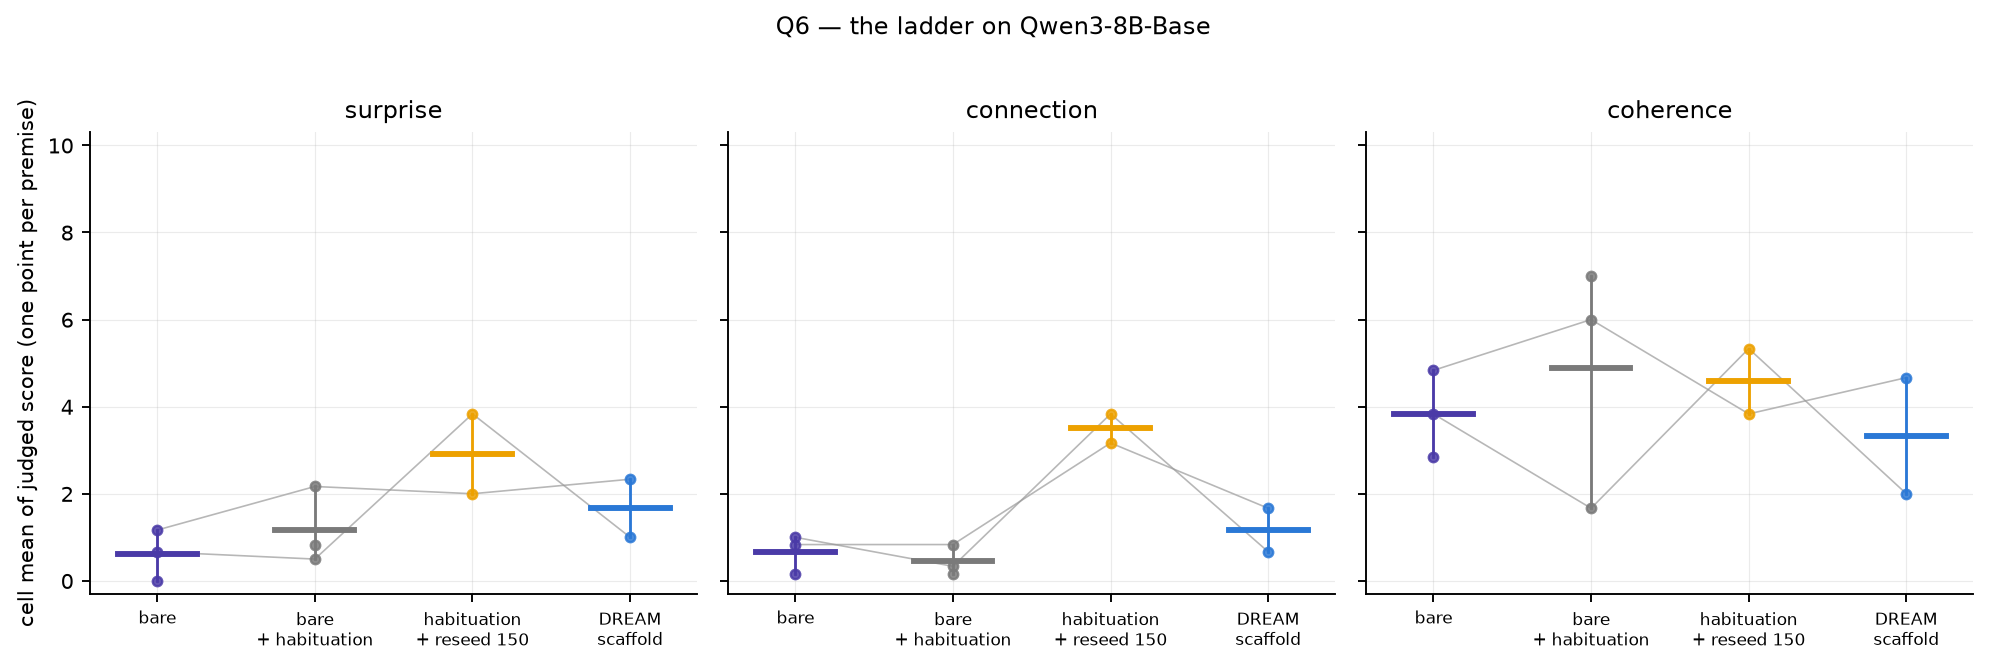
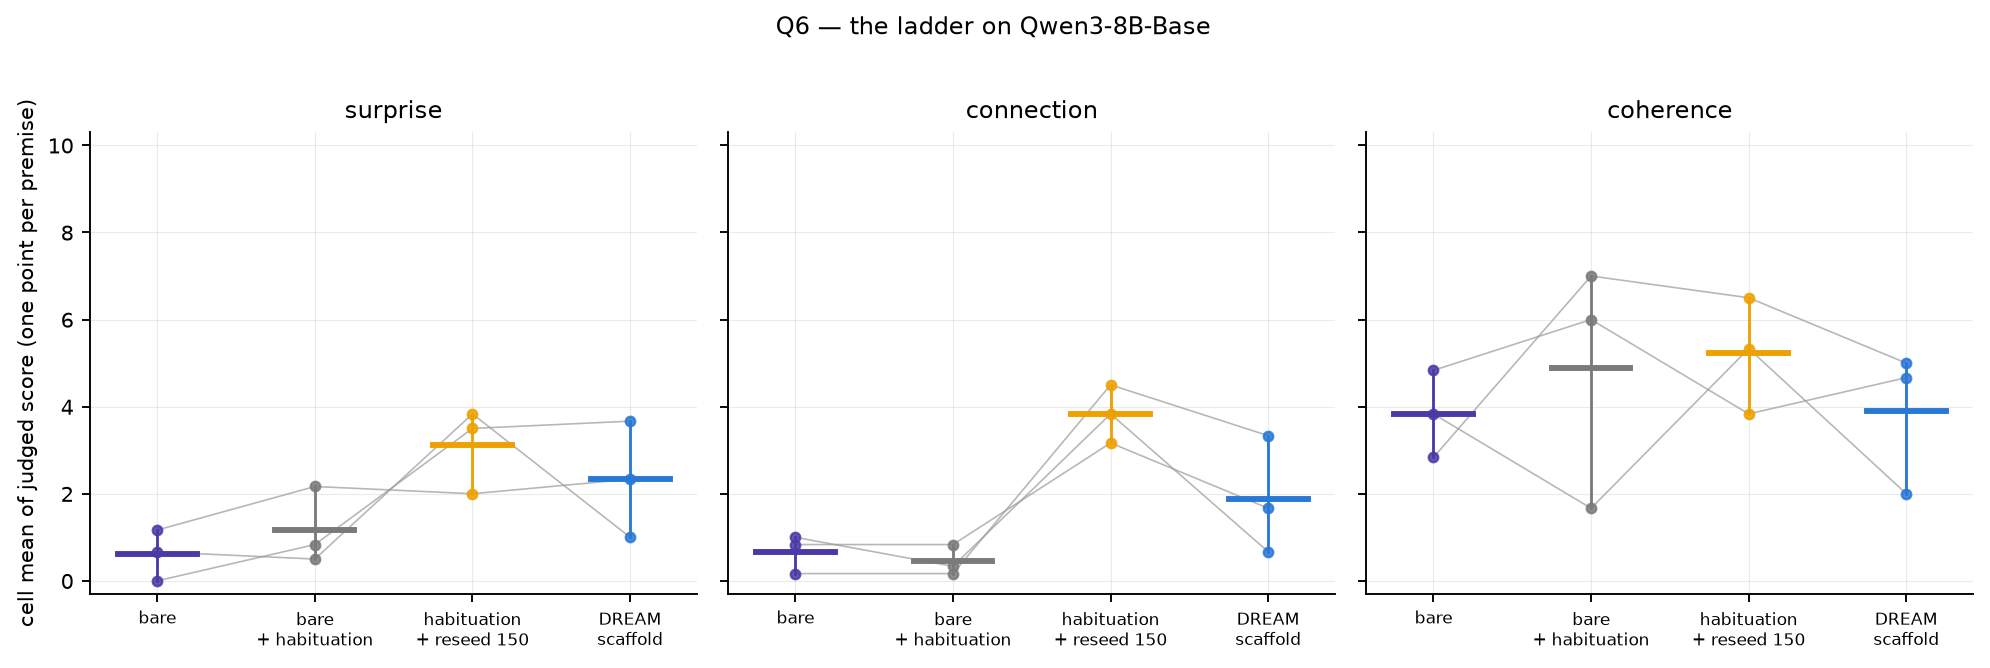
analysis_gen: phase-weighted stream estimate per period

diff --git a/scripts/analysis_gen.py b/scripts/analysis_gen.py
@@ -220,13 +220,24 @@ def main() -> None:
           [("bare_reseed", "150"), ("clock300", "300"), ("clock600", "600"), ("clock900", "900")],
           ref=0, fname="fig9_q5_period.png")
     # decay: cell means by offset for 300/600/900
-    md.append("\n### Q5b — decay: cell mean surprise by tokens since the injection (window start), generated text only\n")
-    md.append("| period | " + " | ".join(f"offset {o}" for o in (32, 160, 300, 450, 600, 750)) + " |")
-    md.append("|---|" + "---|" * 6)
+    md.append("\n### Q5b — decay: cell mean surprise by tokens since the injection (window start), generated text only; "
+              "stream estimate = offset means weighted by the stretch of the segment each window represents\n")
+    md.append("| period | " + " | ".join(f"offset {o}" for o in (32, 160, 300, 450, 600, 750)) + " | stream estimate (S / C / H) |")
+    md.append("|---|" + "---|" * 7)
     fig, ax = plt.subplots(figsize=(6.5, 3.6))
-    for c, lab in (("bare_reseed", "150"), ("clock300", "300"), ("clock600", "600"), ("clock900", "900")):
+    for c, lab, period in (("bare_reseed", "150", 150), ("clock300", "300", 300), ("clock600", "600", 600), ("clock900", "900", 900)):
         xs, ys, es = [], [], []
         row = []
+        offs = [o for o in (32, 160, 300, 450, 600, 750) if o + 96 <= period]
+        stream = {}
+        for d in DIMS:
+            num = den = 0.0
+            for i, o in enumerate(offs):
+                cm = cell_means(main30, c, d, o)
+                if len(cm) >= 3:
+                    w = (offs[i + 1] if i + 1 < len(offs) else period) - (0 if i == 0 else o)
+                    num += w * np.mean(list(cm.values())); den += w
+            stream[d] = num / den if den else float("nan")
         for o in (32, 160, 300, 450, 600, 750):
             cm = cell_means(main30, c, "surprise", o)
             if len(cm) >= 3:
@@ -235,7 +246,7 @@ def main() -> None:
                 row.append(f"{np.mean(v):.2f} (n={len(v)})")
             else:
                 row.append("—")
-        md.append(f"| {lab} | " + " | ".join(row) + " |")
+        md.append(f"| {lab} | " + " | ".join(row) + f" | {stream['surprise']:.2f} / {stream['connection']:.2f} / {stream['coherence']:.2f} |")
         if xs:
             ax.errorbar(xs, ys, yerr=np.array(es).T, fmt="-o", ms=4, capsize=2, color=PAL.get(c, "#666"), label=f"every {lab}")
     ax.set_xlabel("window centre, tokens since the injection (generated text only)"); ax.set_ylabel("cell mean surprise (95% CI over cells)")

diff --git a/docs/APPENDIX_GEN.md b/docs/APPENDIX_GEN.md
@@ -2,15 +2,15 @@
 
 Windows of 96 model-generated tokens starting 32 tokens after each injection (none crossing an injection); uniform grid for uninterrupted arms; the judge sees the 600 preceding tokens as context. Unit = cell (premise); CIs are bootstrap over cells; paired comparisons use exact sign-flip permutation p-values on the 10 paired differences and Cliff's delta on cell means. Opus 5, k=5, median per window.
 
-216 judged windows on the main generator, 75 on Qwen3-8B, 62 on OLMo-2.
+271 judged windows on the main generator, 91 on Qwen3-8B, 74 on OLMo-2.
 
 
 ### Q1 — habituation × interruption (period 150) and baselines — cell means (mean over cells [95% CI over cells])
 
 | condition | n cells | surprise | connection | coherence |
 |---|---|---|---|---|
-| bare | 2 | 0.42 [0.33, 0.50] | 0.42 [0.17, 0.67] | 1.92 [1.33, 2.50] |
-| bare + habituation | 1 | 1.50 [nan, nan] | 1.00 [nan, nan] | 4.33 [nan, nan] |
+| bare | 3 | 0.68 [0.33, 1.20] | 0.41 [0.17, 0.67] | 3.34 [1.33, 6.20] |
+| bare + habituation | 2 | 1.75 [1.50, 2.00] | 1.00 [1.00, 1.00] | 5.17 [4.33, 6.00] |
 | reseed 150, no habituation | 0 | — | — | — |
 | habituation + reseed 150 | 2 | 2.92 [2.00, 3.83] | 3.75 [2.33, 5.17] | 6.58 [6.33, 6.83] |
 | DREAM scaffold | 2 | 2.25 [1.50, 3.00] | 1.08 [1.00, 1.17] | 5.00 [4.67, 5.33] |
@@ -27,9 +27,9 @@ Windows of 96 model-generated tokens starting 32 tokens after each injection (no
 | condition | n cells | surprise | connection | coherence |
 |---|---|---|---|---|
 | neutral subject change | 2 | 2.92 [2.00, 3.83] | 3.75 [2.33, 5.17] | 6.58 [6.33, 6.83] |
-| re-encounter stitch | 1 | 2.67 [nan, nan] | 3.33 [nan, nan] | 5.83 [nan, nan] |
-| the premise itself | 2 | 1.17 [0.33, 2.00] | 0.58 [0.17, 1.00] | 5.33 [3.67, 7.00] |
-| the stream's own past | 1 | 0.50 [nan, nan] | 0.67 [nan, nan] | 2.83 [nan, nan] |
+| re-encounter stitch | 3 | 3.50 [2.67, 4.00] | 4.83 [3.33, 6.00] | 6.61 [5.83, 7.00] |
+| the premise itself | 2 | 0.75 [0.33, 1.17] | 0.58 [0.17, 1.00] | 4.92 [3.67, 6.17] |
+| the stream's own past | 2 | 0.75 [0.50, 1.00] | 0.83 [0.67, 1.00] | 3.58 [2.83, 4.33] |
 
 ### vs neutral subject change — paired by seed
 
@@ -40,7 +40,7 @@ Windows of 96 model-generated tokens starting 32 tokens after each injection (no
 
 | condition | n cells | surprise | connection | coherence |
 |---|---|---|---|---|
-| no interruption | 1 | 1.50 [nan, nan] | 1.00 [nan, nan] | 4.33 [nan, nan] |
+| no interruption | 2 | 1.75 [1.50, 2.00] | 1.00 [1.00, 1.00] | 5.17 [4.33, 6.00] |
 | paragraph break (sham) | 0 | — | — | — |
 | continuity connective (sham) | 0 | — | — | — |
 | subject change, context preserved | 1 | 1.67 [nan, nan] | 1.83 [nan, nan] | 6.67 [nan, nan] |
@@ -57,11 +57,11 @@ Windows of 96 model-generated tokens starting 32 tokens after each injection (no
 
 | condition | n cells | surprise | connection | coherence |
 |---|---|---|---|---|
-| stitch on the clock 150 | 1 | 2.67 [nan, nan] | 3.33 [nan, nan] | 5.83 [nan, nan] |
+| stitch on the clock 150 | 3 | 3.50 [2.67, 4.00] | 4.83 [3.33, 6.00] | 6.61 [5.83, 7.00] |
 | stitch on the clock 900 | 2 | 3.40 [2.80, 4.00] | 3.25 [2.80, 3.70] | 6.30 [5.80, 6.80] |
 | neutral change 900 | 2 | 2.60 [2.60, 2.60] | 2.00 [1.80, 2.20] | 6.80 [6.80, 6.80] |
 | stitch on salience events | 1 | 2.50 [nan, nan] | 1.50 [nan, nan] | 5.00 [nan, nan] |
-| salience only | 2 | 0.83 [0.17, 1.50] | 0.50 [0.00, 1.00] | 3.58 [2.50, 4.67] |
+| salience only | 3 | 1.39 [0.17, 2.50] | 0.78 [0.00, 1.33] | 3.89 [2.50, 4.67] |
 
 ### vs stitch on the clock 900 — paired by seed
 
@@ -74,7 +74,7 @@ Windows of 96 model-generated tokens starting 32 tokens after each injection (no
 |---|---|---|---|---|
 | 150 | 2 | 2.92 [2.00, 3.83] | 3.75 [2.33, 5.17] | 6.58 [6.33, 6.83] |
 | 300 | 1 | 1.67 [nan, nan] | 1.83 [nan, nan] | 6.67 [nan, nan] |
-| 600 | 1 | 2.33 [nan, nan] | 1.50 [nan, nan] | 7.50 [nan, nan] |
+| 600 | 2 | 2.42 [2.33, 2.50] | 1.83 [1.50, 2.17] | 7.00 [6.50, 7.50] |
 | 900 | 2 | 2.60 [2.60, 2.60] | 2.00 [1.80, 2.20] | 6.80 [6.80, 6.80] |
 
 ### vs 150 — paired by seed
@@ -82,14 +82,14 @@ Windows of 96 model-generated tokens starting 32 tokens after each injection (no
 | condition | dim | Δ [CI] | p (perm) | q (BH) | Cliff δ | n seeds |
 |---|---|---|---|---|---|---|
 
-### Q5b — decay: cell mean surprise by tokens since the injection (window start), generated text only
+### Q5b — decay: cell mean surprise by tokens since the injection (window start), generated text only; stream estimate = offset means weighted by the stretch of the segment each window represents
 
-| period | offset 32 | offset 160 | offset 300 | offset 450 | offset 600 | offset 750 |
-|---|---|---|---|---|---|---|
-| 150 | — | — | — | — | — | — |
-| 300 | — | — | — | — | — | — |
-| 600 | — | — | — | — | — | — |
-| 900 | — | — | — | — | — | — |
+| period | offset 32 | offset 160 | offset 300 | offset 450 | offset 600 | offset 750 | stream estimate (S / C / H) |
+|---|---|---|---|---|---|---|---|
+| 150 | — | — | — | — | — | — | nan / nan / nan |
+| 300 | — | — | — | — | — | — | nan / nan / nan |
+| 600 | — | — | — | — | — | — | nan / nan / nan |
+| 900 | — | — | — | 2.22 (n=3) | — | — | 2.22 / 1.78 / 4.44 |
 
 ### Q6 — the ladder on Qwen3-8B-Base — cell means (mean over cells [95% CI over cells])
 
@@ -97,16 +97,22 @@ Windows of 96 model-generated tokens starting 32 tokens after each injection (no
 |---|---|---|---|---|
 | bare | 3 | 0.61 [0.00, 1.17] | 0.67 [0.17, 1.00] | 3.83 [2.83, 4.83] |
 | bare + habituation | 3 | 1.17 [0.50, 2.17] | 0.44 [0.17, 0.83] | 4.89 [1.67, 7.00] |
-| habituation + reseed 150 | 2 | 2.92 [2.00, 3.83] | 3.50 [3.17, 3.83] | 4.58 [3.83, 5.33] |
-| DREAM scaffold | 2 | 1.67 [1.00, 2.33] | 1.17 [0.67, 1.67] | 3.33 [2.00, 4.67] |
+| habituation + reseed 150 | 3 | 3.11 [2.00, 3.83] | 3.83 [3.17, 4.50] | 5.22 [3.83, 6.50] |
+| DREAM scaffold | 3 | 2.33 [1.00, 3.67] | 1.89 [0.67, 3.33] | 3.89 [2.00, 5.00] |
 
 ### vs bare + habituation — paired by seed
 
 | condition | dim | Δ [CI] | p (perm) | q (BH) | Cliff δ | n seeds |
 |---|---|---|---|---|---|---|
-| bare | surprise | -0.56 [-1.00, +0.17] | 0.500 | 1.000 | -0.33 | 3 |
+| bare | surprise | -0.56 [-1.00, +0.17] | 0.500 | 0.750 | -0.33 | 3 |
 | bare | connection | +0.22 [+0.00, +0.67] | 1.000 | 1.000 | +0.33 | 3 |
-| bare | coherence | -1.06 [-4.17, +2.17] | 0.750 | 1.000 | -0.33 | 3 |
+| bare | coherence | -1.06 [-4.17, +2.17] | 0.750 | 0.964 | -0.33 | 3 |
+| habituation + reseed 150 | surprise | +1.94 [-0.17, +3.33] | 0.500 | 0.750 | +0.78 | 3 |
+| habituation + reseed 150 | connection | **+3.39 [+2.33, +4.33]** | 0.250 | 0.750 | +1.00 | 3 |
+| habituation + reseed 150 | coherence | +0.33 [-2.17, +3.67] | 1.000 | 1.000 | -0.11 | 3 |
+| DREAM scaffold | surprise | **+1.17 [+0.17, +2.83]** | 0.250 | 0.750 | +0.78 | 3 |
+| DREAM scaffold | connection | **+1.44 [+0.33, +3.17]** | 0.250 | 0.750 | +0.78 | 3 |
+| DREAM scaffold | coherence | -1.00 [-2.00, +0.33] | 0.500 | 0.750 | -0.33 | 3 |
 
 ### Q6 — the ladder on OLMo-2-13B — cell means (mean over cells [95% CI over cells])
 
@@ -114,41 +120,44 @@ Windows of 96 model-generated tokens starting 32 tokens after each injection (no
 |---|---|---|---|---|
 | bare | 3 | 0.94 [0.17, 1.50] | 0.67 [0.00, 1.33] | 2.72 [0.83, 3.83] |
 | bare + habituation | 3 | 2.56 [1.50, 3.83] | 1.92 [1.00, 2.75] | 5.50 [3.83, 6.67] |
-| habituation + reseed 150 | 3 | 4.08 [2.17, 5.50] | 4.22 [3.00, 5.00] | 5.28 [4.67, 6.00] |
-| DREAM scaffold | 2 | 4.50 [4.00, 5.00] | 3.58 [3.17, 4.00] | 7.25 [6.50, 8.00] |
+| habituation + reseed 150 | 3 | 3.47 [2.17, 4.58] | 3.83 [3.00, 4.67] | 5.00 [4.67, 5.17] |
+| DREAM scaffold | 3 | 3.67 [2.00, 5.00] | 2.72 [1.00, 4.00] | 6.50 [5.00, 8.00] |
 
 ### vs bare + habituation — paired by seed
 
 | condition | dim | Δ [CI] | p (perm) | q (BH) | Cliff δ | n seeds |
 |---|---|---|---|---|---|---|
-| bare | surprise | -1.61 [-3.67, +0.00] | 0.500 | 0.600 | -0.89 | 3 |
-| bare | connection | -1.25 [-2.75, +0.33] | 0.500 | 0.600 | -0.78 | 3 |
-| bare | coherence | -2.78 [-5.83, +0.00] | 0.500 | 0.600 | -0.89 | 3 |
-| habituation + reseed 150 | surprise | +1.53 [-1.67, +4.00] | 0.500 | 0.600 | +0.56 | 3 |
-| habituation + reseed 150 | connection | **+2.31 [+0.25, +4.00]** | 0.250 | 0.600 | +1.00 | 3 |
-| habituation + reseed 150 | coherence | -0.22 [-2.00, +2.17] | 1.000 | 1.000 | -0.22 | 3 |
+| bare | surprise | -1.61 [-3.67, +0.00] | 0.500 | 0.562 | -0.89 | 3 |
+| bare | connection | -1.25 [-2.75, +0.33] | 0.500 | 0.562 | -0.78 | 3 |
+| bare | coherence | -2.78 [-5.83, +0.00] | 0.500 | 0.562 | -0.89 | 3 |
+| habituation + reseed 150 | surprise | +0.92 [-1.67, +2.25] | 0.500 | 0.562 | +0.33 | 3 |
+| habituation + reseed 150 | connection | **+1.92 [+0.25, +2.83]** | 0.250 | 0.562 | +1.00 | 3 |
+| habituation + reseed 150 | coherence | -0.50 [-2.00, +1.33] | 0.750 | 0.750 | -0.33 | 3 |
+| DREAM scaffold | surprise | **+1.11 [+0.17, +2.67]** | 0.250 | 0.562 | +0.56 | 3 |
+| DREAM scaffold | connection | +0.81 [+0.00, +2.00] | 0.500 | 0.562 | +0.44 | 3 |
+| DREAM scaffold | coherence | +1.00 [-0.17, +2.00] | 0.500 | 0.562 | +0.33 | 3 |
 
 ### Protocol agreement — condition means, event windows (v1) vs generated-only windows (unit = cell)
 
 | condition | surprise event / gen | connection event / gen | coherence event / gen | n cells (event / gen) |
 |---|---|---|---|---|
-| abl_forget | 3.44 / 2.25 | 1.73 / 1.17 | 3.88 / 5.00 | 10 / 2 |
-| salience only | 2.86 / 0.83 | 1.53 / 0.50 | 3.85 / 3.58 | 10 / 2 |
-| bare | 0.28 / 0.42 | 0.20 / 0.42 | 2.06 / 1.92 | 10 / 2 |
-| bare + habituation | 1.70 / 1.50 | 1.08 / 1.00 | 4.08 / 4.33 | 10 / 1 |
+| abl_forget | 3.44 / 2.39 | 1.73 / 1.33 | 3.88 / 4.78 | 10 / 3 |
+| salience only | 2.86 / 1.39 | 1.53 / 0.78 | 3.85 / 3.89 | 10 / 3 |
+| bare | 0.28 / 0.68 | 0.20 / 0.41 | 2.06 / 3.34 | 10 / 3 |
+| bare + habituation | 1.70 / 1.75 | 1.08 / 1.00 | 4.08 / 5.17 | 10 / 2 |
 | habituation + reseed 150 | 3.08 / 2.92 | 3.15 / 3.75 | 4.78 / 6.58 | 10 / 2 |
 | reseed 300 | 4.01 / 1.67 | 3.12 / 1.83 | 5.98 / 6.67 | 10 / 1 |
-| reseed 600 | 3.64 / 2.33 | 2.64 / 1.50 | 5.50 / 7.50 | 10 / 1 |
+| reseed 600 | 3.64 / 2.42 | 2.64 / 1.83 | 5.50 / 7.00 | 10 / 2 |
 | reseed 900 | 4.28 / 2.60 | 2.53 / 2.00 | 5.55 / 6.80 | 10 / 2 |
 | stitch 900 | 3.91 / 3.40 | 3.01 / 3.25 | 5.17 / 6.30 | 10 / 2 |
-| premise 150 | 1.02 / 1.17 | 0.98 / 0.58 | 3.03 / 5.33 | 10 / 2 |
-| re-encounter stitch 150 | 2.55 / 2.67 | 3.53 / 3.33 | 4.67 / 5.83 | 10 / 1 |
-| own past 150 | 1.37 / 0.50 | 1.50 / 0.67 | 3.03 / 2.83 | 10 / 1 |
+| premise 150 | 1.02 / 0.75 | 0.98 / 0.58 | 3.03 / 4.92 | 10 / 2 |
+| re-encounter stitch 150 | 2.55 / 3.50 | 3.53 / 4.83 | 4.67 / 6.61 | 10 / 3 |
+| own past 150 | 1.37 / 0.75 | 1.50 / 0.83 | 3.03 / 3.58 | 10 / 2 |
 | salience-timed stitch | 3.00 / 2.50 | 2.26 / 1.50 | 3.85 / 5.00 | 10 / 1 |
 | DREAM scaffold | 3.50 / 2.25 | 1.70 / 1.08 | 3.82 / 5.00 | 10 / 2 |
 
-Spearman across conditions (surprise): rho = +0.62 (n = 14 conditions).
+Spearman across conditions (surprise): rho = +0.55 (n = 14 conditions).
 
-Spearman across conditions (connection): rho = +0.94 (n = 14 conditions).
+Spearman across conditions (connection): rho = +0.96 (n = 14 conditions).
 
-Spearman across conditions (coherence): rho = +0.86 (n = 14 conditions).
+Spearman across conditions (coherence): rho = +0.91 (n = 14 conditions).
